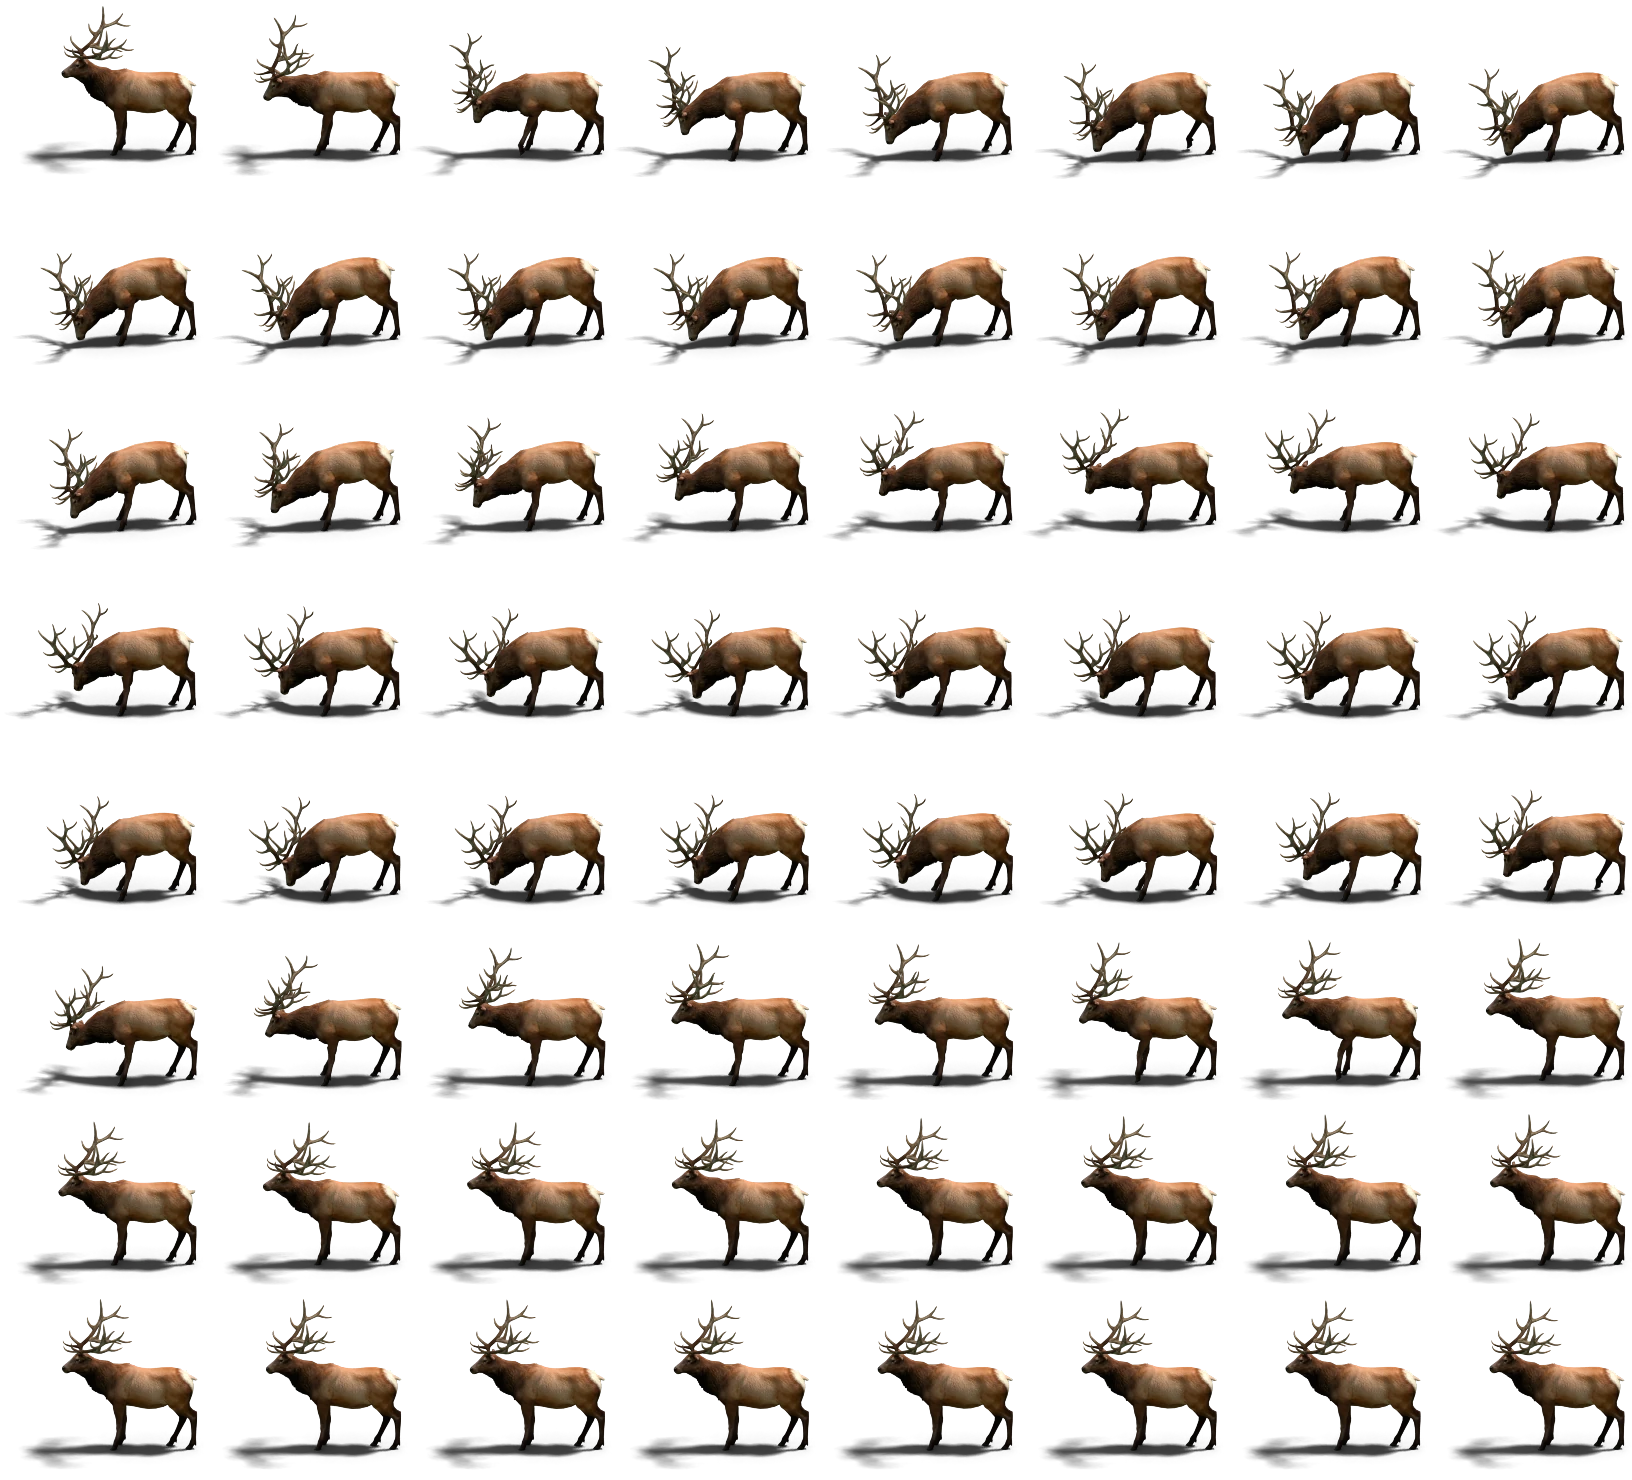
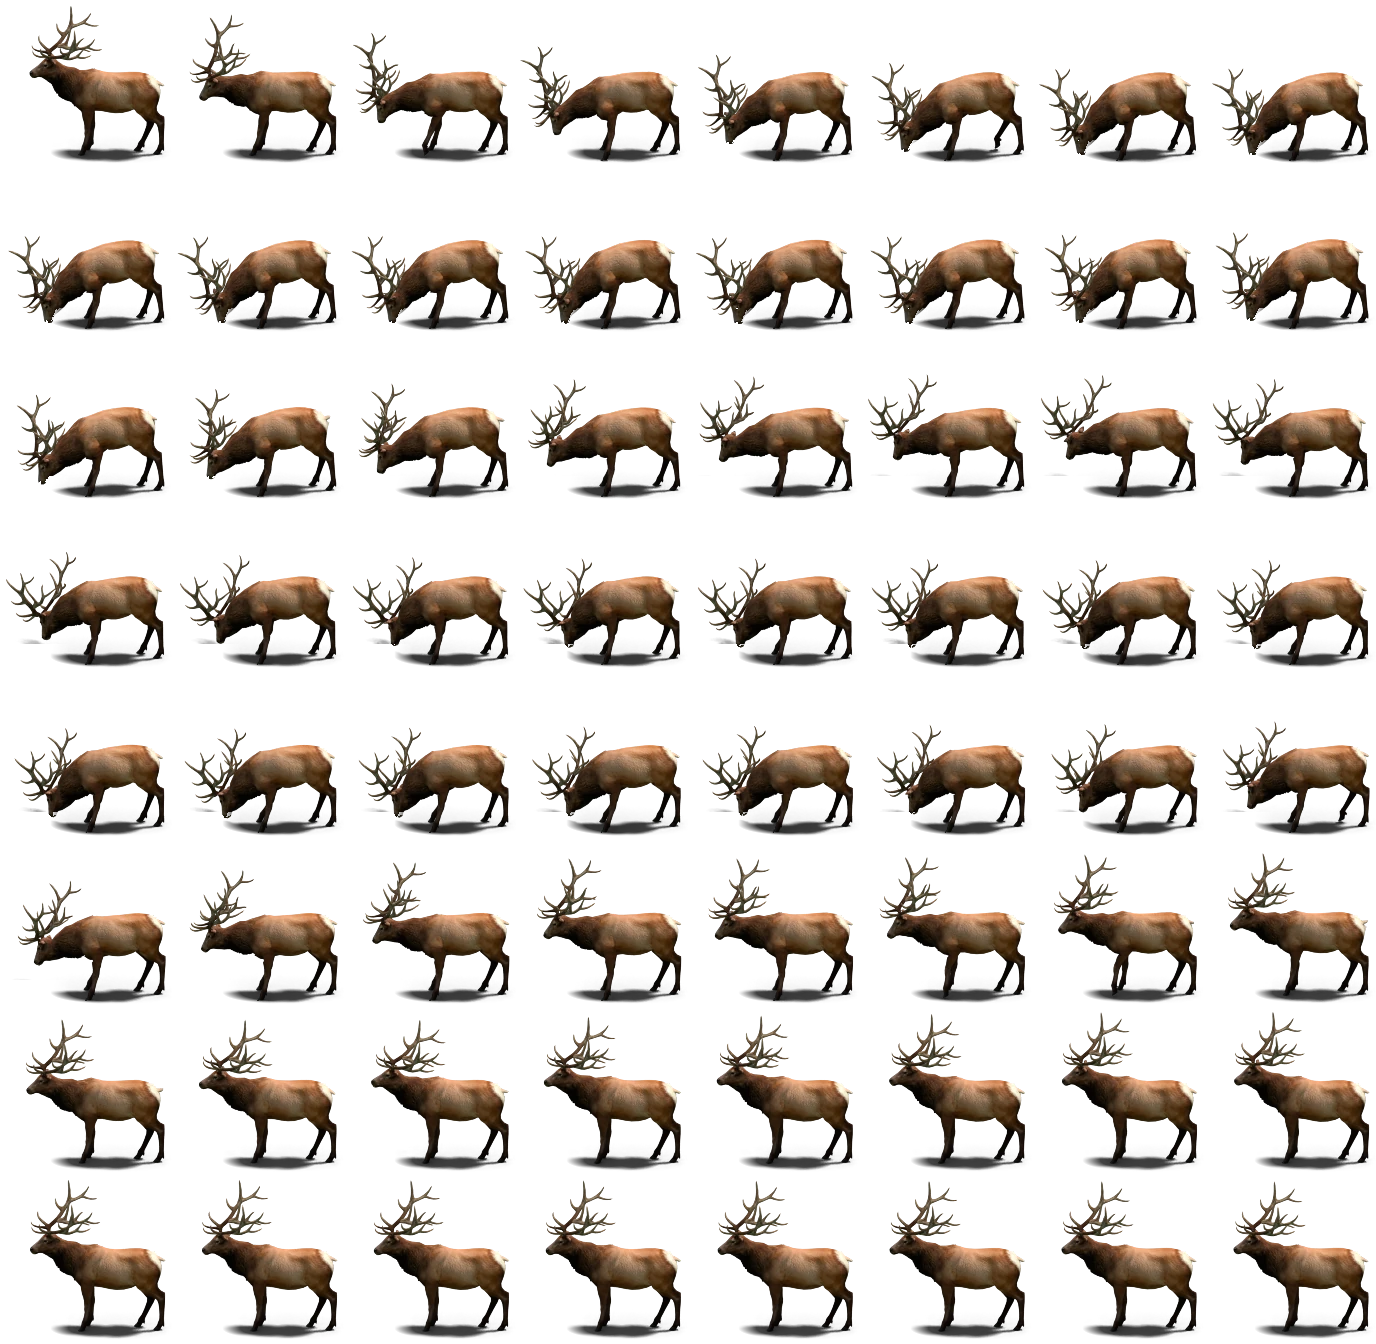
render: elk single contact shadow, herd clear of hedge and props (TB-208)

diff --git a/src/data/presentation.ts b/src/data/presentation.ts
@@ -214,15 +214,16 @@ export const CAMP_DRAW_ORDER = [...BUILDINGS].sort((a, b) => CAMP_SPOTS[a.id].y 
  *  Birds: `n` small two-stroke silhouettes drifting at `speed` units/s across the band y0..y1, wings beating at `flap` Hz, span `span`. */
 export const CAMP_FAUNA = {
   elk: [
-    { dx: -105, dy: -22, right: false, s: 1.0, phase: 0 }, { dx: 75, dy: -16, right: true, s: 0.92, phase: 0.55 },
-    { dx: 300, dy: -26, right: false, s: 1.08, phase: 0.3 },
+    { dx: -105, dy: -6, right: false, s: 1.0, phase: 0 }, { dx: -5, dy: -6, right: true, s: 0.92, phase: 0.55 },
+    { dx: 285, dy: -12, right: false, s: 1.08, phase: 0.3 },
   ],
   birds: { n: 5, y0: -262, y1: -228, speed: [9, 16], flap: [1.4, 2.4], span: 7, a: 0.8 },
 } as const;
-/** Elk sheet layout (scene units for the rect; `n` frames in a grid of `cols`, played at `fps`), written by post_elk.py. */
+/** Elk sheet layout (scene units for the rect; `n` frames in a grid of `cols`, played at `fps`), written by post_elk.py, which also
+ *  trims each elk to one contact shadow under its hooves (the long antler streaks and a second hind-leg smear read as stray marks). */
 export interface CampSheetRect { readonly x: number; readonly y: number; readonly w: number; readonly h: number; readonly n: number; readonly cols: number; readonly fps: number }
-export const CAMP_ELK_ART: CampSheetRect = /*ELK*/{ x: 557.0, y: -161.0, w: 68.0, h: 61.7, n: 64, cols: 8, fps: 6.0 }/*EEND*/;
-export const CAMP_ELK_R_ART: CampSheetRect = /*ELKR*/{ x: 566.0, y: -161.0, w: 66.7, h: 60.7, n: 64, cols: 8, fps: 6.0 }/*EREND*/;
+export const CAMP_ELK_ART: CampSheetRect = /*ELK*/{ x: 567.7, y: -161.0, w: 57.3, h: 56.0, n: 64, cols: 8, fps: 6.0 }/*EEND*/;
+export const CAMP_ELK_R_ART: CampSheetRect = /*ELKR*/{ x: 570.7, y: -161.0, w: 62.0, h: 56.3, n: 64, cols: 8, fps: 6.0 }/*EREND*/;
 /** Scene point under the rendered elk's hooves (render_camp_backdrop.py ELK_AT): the anchor each elk scales about. */
 export const CAMP_ELK_FOOT = { x: 600, y: -110 } as const;
 

diff --git a/.claude/skills/mixamo-animate/scripts/post_elk.py b/.claude/skills/mixamo-animate/scripts/post_elk.py
@@ -19,6 +19,25 @@ for i in range(n):
     r_, g_, b_, a_ = im.split(); d = ImageChops.subtract(a_, BG)
     a2 = Image.frombytes("L", d.size, bytes(0 if v < 10 or w == 0 else min(255, (v - 10) * 255 // max(1, w - 10)) for v, w in zip(d.tobytes(), inv.tobytes())))
     fr.append(Image.merge("RGBA", (r_, g_, b_, a2)))
+# One contact shadow (TB-208 critic): the low camp sun throws the antlers' and head's shadows far across the grass as thin
+# streaks, and on the right-facing pass a second smear behind the hind legs; both read as stray marks at game scale. The elk
+# grazes on one spot, so frame 0's hooves (lowest non-shadow pixels) fix one ground ellipse for every frame; shadow pixels
+# (near-black: the catcher writes no colour) keep their alpha inside it and fade to none by SH_FADE times its radius.
+import math
+def _dark(p): return max(p[0], p[1], p[2]) < 24
+a0 = fr[0].load(); W0_, H0_ = fr[0].size
+body = [(x, y) for y in range(H0_) for x in range(W0_) if a0[x, y][3] > 128 and not _dark(a0[x, y])]
+hy = max(y for x, y in body); feet = [x for x, y in body if y >= hy - 10]
+SH_PAD, SH_RY, SH_FADE = float(os.environ.get("SH_PAD", "10")), float(os.environ.get("SH_RY", "9")), 1.35
+cx, rx, cy = (min(feet) + max(feet)) / 2, (max(feet) - min(feet)) / 2 + SH_PAD, hy - 2
+for im in fr:
+    px_ = im.load()
+    for y in range(max(0, int(cy - 12)), H0_):   # above the ground band the only near-black pixels are the elk's own
+        for x in range(W0_):
+            p = px_[x, y]
+            if p[3] == 0 or not _dark(p): continue
+            e = math.hypot((x - cx) / rx, (y - cy) / SH_RY) if y > cy else abs(x - cx) / rx   # above the hoof line: a column
+            if e > 1: px_[x, y] = (p[0], p[1], p[2], int(p[3] * max(0.0, (SH_FADE - e) / (SH_FADE - 1))))
 bb = None
 for im in fr:
     b = im.getchannel("A").point(lambda v: 255 if v > 6 else 0).getbbox()
